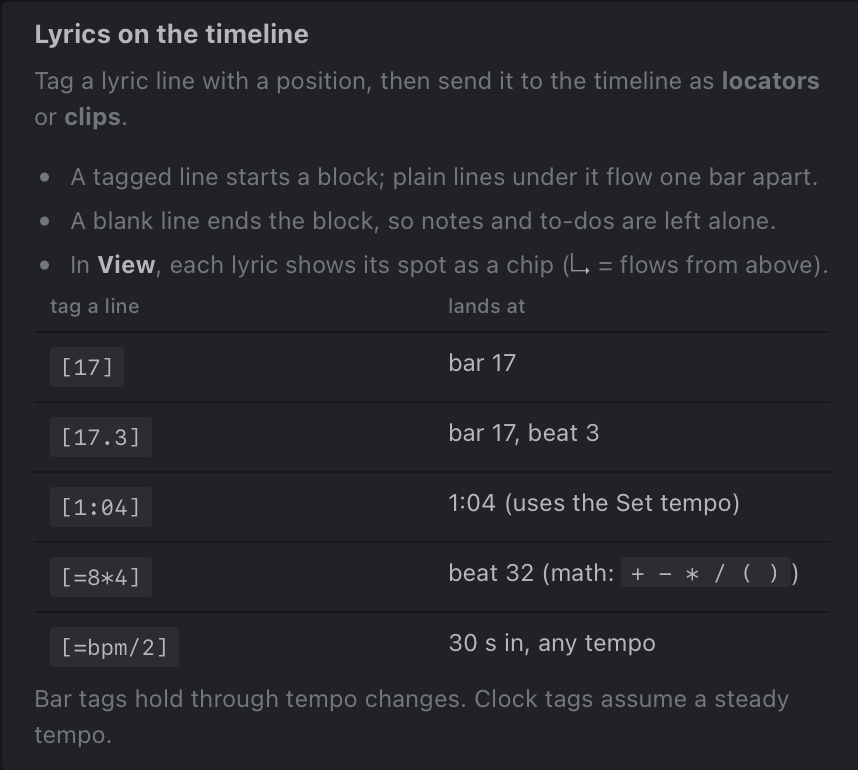
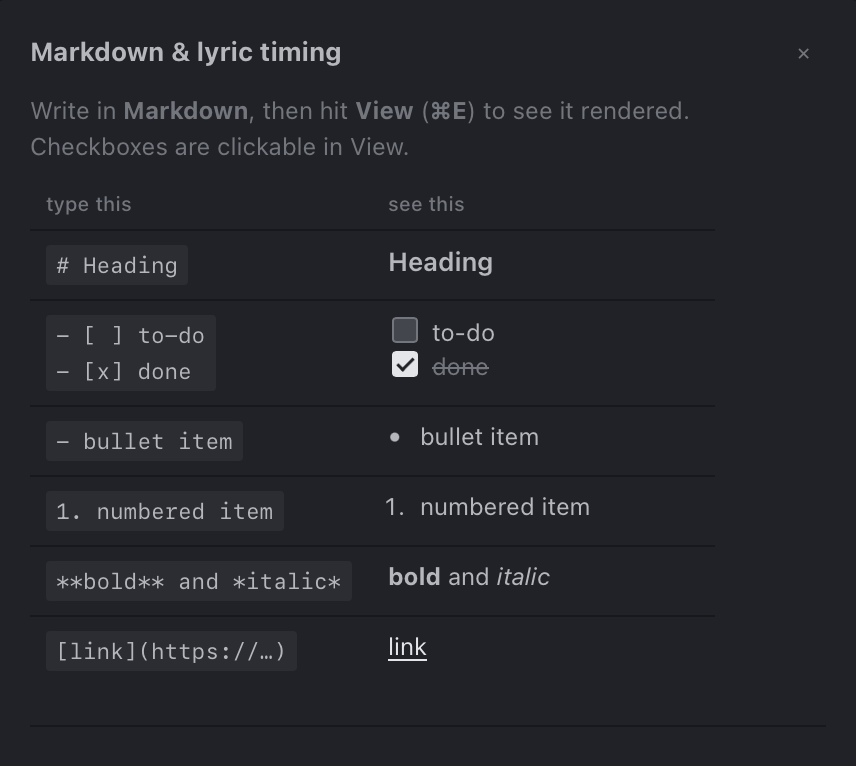
v0.2.1: refreshed starter template, clearer bpm help example, fixed screenshots
- Seed a starter note that showcases lyric timing (see da3188d).
- Swap the [=bpm/2] cheatsheet row for [=bpm] -> '1 min in' (see bf4a349).
- Correct the swapped help screenshots (lyrics-help = timing table,
  md-help = Markdown table) and point the README at the timing one.
- Bump manifest to 0.2.1.

diff --git a/README.md b/README.md
@@ -40,7 +40,7 @@ Settings and the built-in help are a button away:
 
 | Settings | Markdown & lyric-timing help |
 | :---: | :---: |
-| ![The settings panel with text size, window size, and Zen Mode](assets/screenshots/settings.png) | ![The lyric-timing help showing tag formats and where each one lands](assets/screenshots/md-help.png) |
+| ![The settings panel with text size, window size, and Zen Mode](assets/screenshots/settings.png) | ![The lyric-timing help showing tag formats and where each one lands](assets/screenshots/lyrics-help.png) |
 
 Try it yourself: paste this into a note, switch to **View**, then press the timeline button.
 